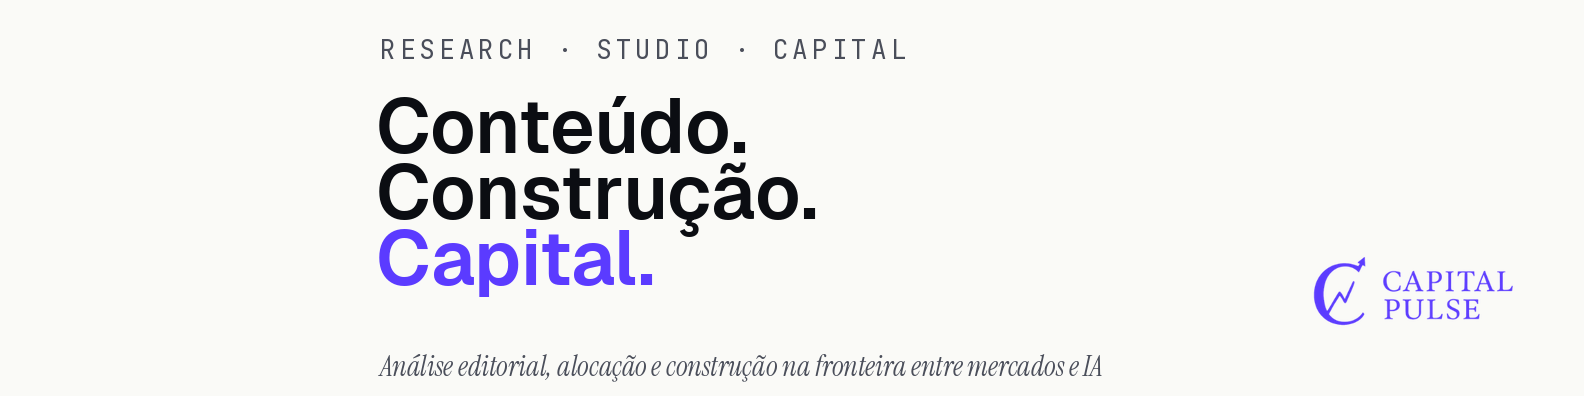
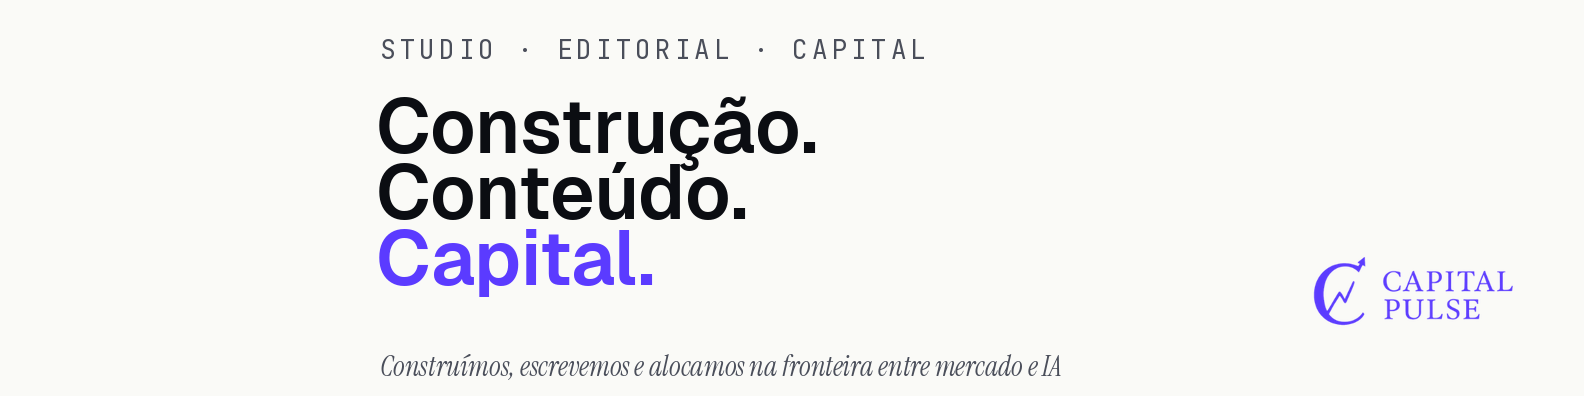
auto-sync: 2026-05-10 11:57

Changed region(s): [[0.3093, 0.2424, 0.5259, 0.6061], [0.2165, 0.8788, 0.7115, 0.9697], [0.2165, 0.0909, 0.5878, 0.1515]]

diff --git a/user-skills/capitalpulse-linkedin-header/render.py b/user-skills/capitalpulse-linkedin-header/render.py
@@ -234,10 +234,10 @@ def main():
     # === DARK PT — versão MINIMAL (sem tagline, masthead grande) ===
     out = render_header(
         theme=DARK,
-        eyebrow_text="RESEARCH · STUDIO · CAPITAL",
+        eyebrow_text="STUDIO · EDITORIAL · CAPITAL",
         manifesto_lines=[
-            [("Conteúdo.", "primary")],
             [("Construção.", "primary")],
+            [("Conteúdo.", "primary")],
             [("Capital.", "signal")],
         ],
         tagline_text=None,
@@ -248,13 +248,13 @@ def main():
     # === DARK PT — versão FULL (com tagline) ===
     out = render_header(
         theme=DARK,
-        eyebrow_text="RESEARCH · STUDIO · CAPITAL",
+        eyebrow_text="STUDIO · EDITORIAL · CAPITAL",
         manifesto_lines=[
-            [("Conteúdo.", "primary")],
             [("Construção.", "primary")],
+            [("Conteúdo.", "primary")],
             [("Capital.", "signal")],
         ],
-        tagline_text="Análise editorial, alocação e construção na fronteira entre mercados e IA",
+        tagline_text="Construímos, escrevemos e alocamos na fronteira entre mercado e IA",
         output_path=str(OUT / "linkedin-header-pt-dark-full-1584x396.png"),
     )
     print(f"✓ Generated: {out}")
@@ -262,10 +262,10 @@ def main():
     # === PAPER PT — versão MINIMAL ===
     out = render_header(
         theme=PAPER,
-        eyebrow_text="RESEARCH · STUDIO · CAPITAL",
+        eyebrow_text="STUDIO · EDITORIAL · CAPITAL",
         manifesto_lines=[
-            [("Conteúdo.", "primary")],
             [("Construção.", "primary")],
+            [("Conteúdo.", "primary")],
             [("Capital.", "signal")],
         ],
         tagline_text=None,
@@ -276,13 +276,13 @@ def main():
     # === PAPER PT — versão FULL ===
     out = render_header(
         theme=PAPER,
-        eyebrow_text="RESEARCH · STUDIO · CAPITAL",
+        eyebrow_text="STUDIO · EDITORIAL · CAPITAL",
         manifesto_lines=[
-            [("Conteúdo.", "primary")],
             [("Construção.", "primary")],
+            [("Conteúdo.", "primary")],
             [("Capital.", "signal")],
         ],
-        tagline_text="Análise editorial, alocação e construção na fronteira entre mercados e IA",
+        tagline_text="Construímos, escrevemos e alocamos na fronteira entre mercado e IA",
         output_path=str(OUT / "linkedin-header-pt-paper-full-1584x396.png"),
     )
     print(f"✓ Generated: {out}")
@@ -290,10 +290,10 @@ def main():
     # === DARK EN — versão MINIMAL ===
     out = render_header(
         theme=DARK,
-        eyebrow_text="RESEARCH · STUDIO · CAPITAL",
+        eyebrow_text="STUDIO · EDITORIAL · CAPITAL",
         manifesto_lines=[
-            [("Content.", "primary")],
             [("Construction.", "primary")],
+            [("Content.", "primary")],
             [("Capital.", "signal")],
         ],
         tagline_text=None,
@@ -304,13 +304,13 @@ def main():
     # === DARK EN — versão FULL ===
     out = render_header(
         theme=DARK,
-        eyebrow_text="RESEARCH · STUDIO · CAPITAL",
+        eyebrow_text="STUDIO · EDITORIAL · CAPITAL",
         manifesto_lines=[
-            [("Content.", "primary")],
             [("Construction.", "primary")],
+            [("Content.", "primary")],
             [("Capital.", "signal")],
         ],
-        tagline_text="Editorial research, allocation and construction at the frontier of markets and AI",
+        tagline_text="We build, write and allocate at the frontier between markets and AI",
         output_path=str(OUT / "linkedin-header-en-dark-full-1584x396.png"),
     )
     print(f"✓ Generated: {out}")

diff --git a/user-skills/capitalpulse-linkedin-header/render-company.py b/user-skills/capitalpulse-linkedin-header/render-company.py
@@ -134,13 +134,13 @@ def main():
     # === DARK PT — versão FULL (com tagline) — recomendada ===
     out = render_company_banner(
         theme=DARK,
-        eyebrow_text="RESEARCH · STUDIO · CAPITAL",
+        eyebrow_text="STUDIO · EDITORIAL · CAPITAL",
         manifesto_words=[
-            ("Conteúdo.", "primary"),
             ("Construção.", "primary"),
+            ("Conteúdo.", "primary"),
             ("Capital.", "signal"),
         ],
-        tagline_text="Análise editorial, alocação e construção na fronteira entre mercados e IA",
+        tagline_text="Construímos, escrevemos e alocamos na fronteira entre mercado e IA",
         output_path=str(OUT / "linkedin-company-pt-dark-full-1128x191.png"),
     )
     print(f"✓ Generated: {out}")
@@ -148,10 +148,10 @@ def main():
     # === DARK PT — versão MINIMAL (sem tagline) ===
     out = render_company_banner(
         theme=DARK,
-        eyebrow_text="RESEARCH · STUDIO · CAPITAL",
+        eyebrow_text="STUDIO · EDITORIAL · CAPITAL",
         manifesto_words=[
-            ("Conteúdo.", "primary"),
             ("Construção.", "primary"),
+            ("Conteúdo.", "primary"),
             ("Capital.", "signal"),
         ],
         tagline_text=None,
@@ -162,13 +162,13 @@ def main():
     # === DARK EN — versão FULL ===
     out = render_company_banner(
         theme=DARK,
-        eyebrow_text="RESEARCH · STUDIO · CAPITAL",
+        eyebrow_text="STUDIO · EDITORIAL · CAPITAL",
         manifesto_words=[
-            ("Content.", "primary"),
             ("Construction.", "primary"),
+            ("Content.", "primary"),
             ("Capital.", "signal"),
         ],
-        tagline_text="Editorial research, allocation and construction at the frontier of markets and AI",
+        tagline_text="We build, write and allocate at the frontier between markets and AI",
         output_path=str(OUT / "linkedin-company-en-dark-full-1128x191.png"),
     )
     print(f"✓ Generated: {out}")
@@ -176,13 +176,13 @@ def main():
     # === PAPER PT — versão FULL ===
     out = render_company_banner(
         theme=PAPER,
-        eyebrow_text="RESEARCH · STUDIO · CAPITAL",
+        eyebrow_text="STUDIO · EDITORIAL · CAPITAL",
         manifesto_words=[
-            ("Conteúdo.", "primary"),
             ("Construção.", "primary"),
+            ("Conteúdo.", "primary"),
             ("Capital.", "signal"),
         ],
-        tagline_text="Análise editorial, alocação e construção na fronteira entre mercados e IA",
+        tagline_text="Construímos, escrevemos e alocamos na fronteira entre mercado e IA",
         output_path=str(OUT / "linkedin-company-pt-paper-full-1128x191.png"),
     )
     print(f"✓ Generated: {out}")
